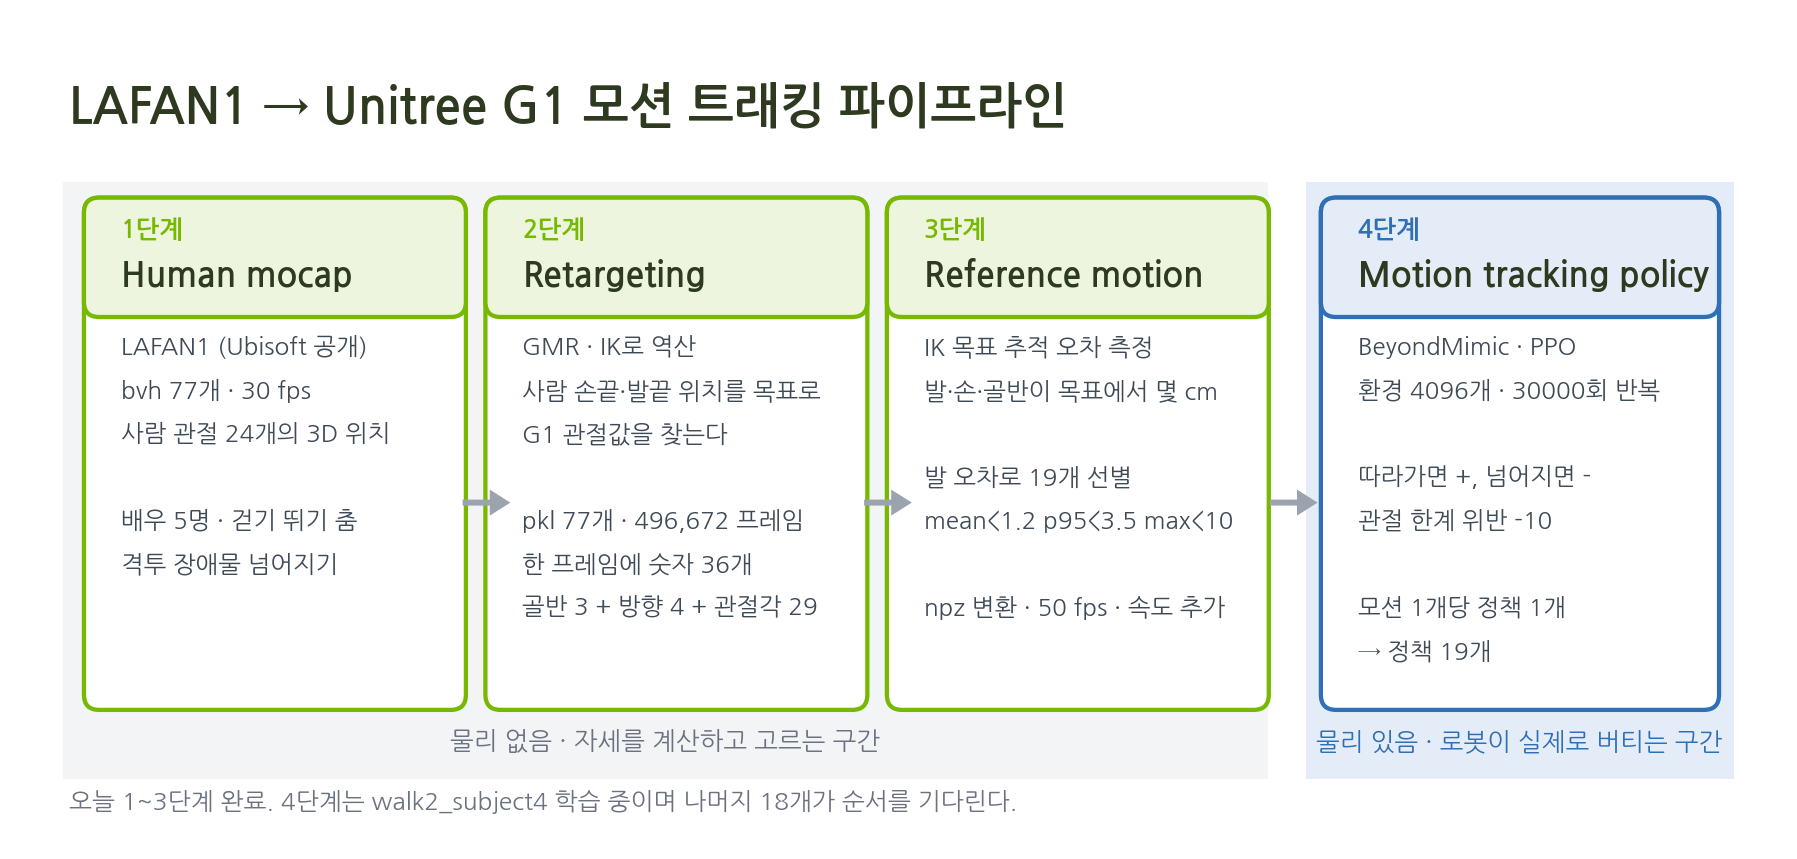
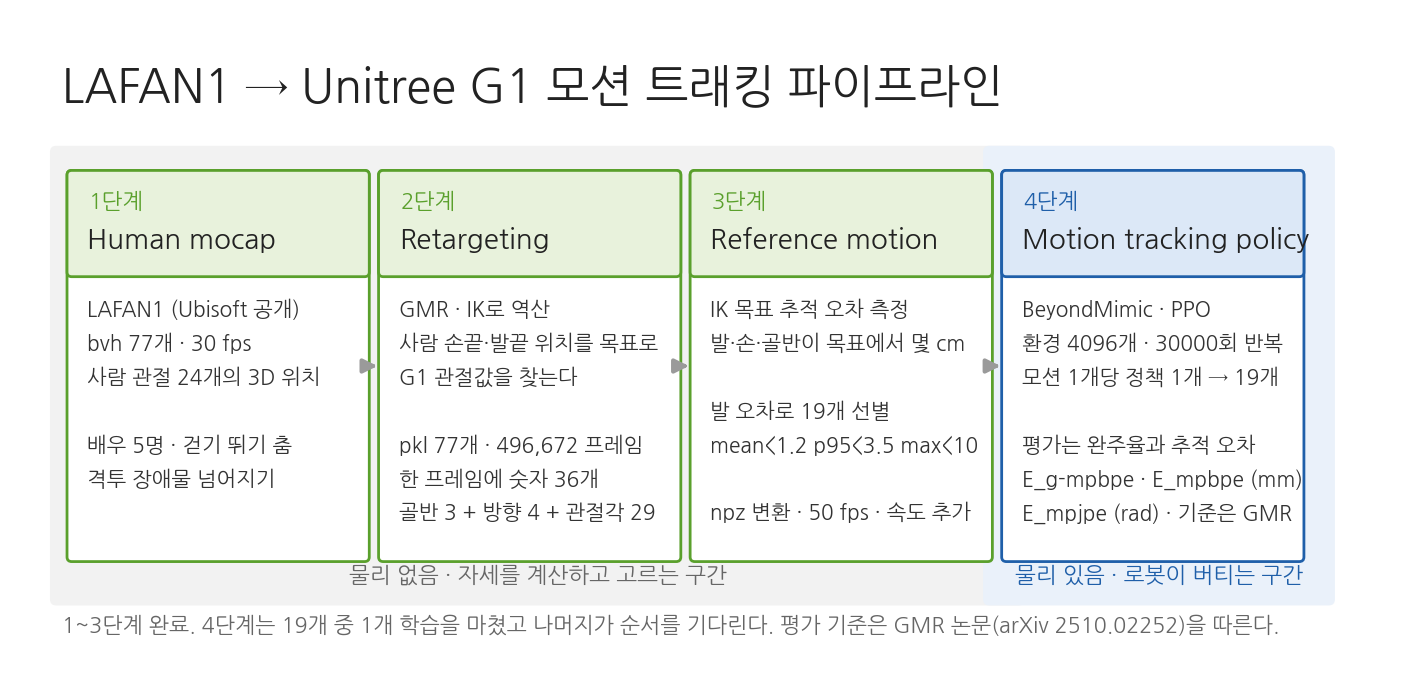
Redraw the pipeline figure with the evaluation criteria
Stage 4 now carries what the policies are measured by — completion rate and
the three tracking errors GMR reports — and the note reflects one policy
trained of nineteen. The figure is generated by scripts/make_pipeline_figure.py.

Claude-Session: https://claude.ai/code/session_01DoowRvK5cc8ssa8UTxvk9t

Changed region(s): [[0.031, 0.2143, 0.9922, 0.949], [0.031, 0.0918, 0.7132, 0.1531]]

diff --git a/scripts/make_pipeline_figure.py b/scripts/make_pipeline_figure.py
@@ -1,0 +1,103 @@
+"""README의 파이프라인 그림을 그린다.
+
+    python scripts/make_pipeline_figure.py --out docs/pipeline.png
+"""
+
+import argparse
+
+import matplotlib
+matplotlib.use("Agg")
+import matplotlib.font_manager as fm
+import matplotlib.pyplot as plt
+from matplotlib.patches import FancyArrowPatch, FancyBboxPatch
+
+FONT = "/usr/share/fonts/truetype/nanum/NanumGothic.ttf"
+GREEN, GREEN_FILL = "#5aa02c", "#e8f2dc"
+BLUE, BLUE_FILL = "#1f5fa9", "#dce8f7"
+
+STAGES = [
+    dict(no="1단계", name="Human mocap", color=GREEN, fill=GREEN_FILL,
+         body=["LAFAN1 (Ubisoft 공개)",
+               "bvh 77개 · 30 fps",
+               "사람 관절 24개의 3D 위치",
+               "",
+               "배우 5명 · 걷기 뛰기 춤",
+               "격투 장애물 넘어지기"]),
+    dict(no="2단계", name="Retargeting", color=GREEN, fill=GREEN_FILL,
+         body=["GMR · IK로 역산",
+               "사람 손끝·발끝 위치를 목표로",
+               "G1 관절값을 찾는다",
+               "",
+               "pkl 77개 · 496,672 프레임",
+               "한 프레임에 숫자 36개",
+               "골반 3 + 방향 4 + 관절각 29"]),
+    dict(no="3단계", name="Reference motion", color=GREEN, fill=GREEN_FILL,
+         body=["IK 목표 추적 오차 측정",
+               "발·손·골반이 목표에서 몇 cm",
+               "",
+               "발 오차로 19개 선별",
+               "mean<1.2 p95<3.5 max<10",
+               "",
+               "npz 변환 · 50 fps · 속도 추가"]),
+    dict(no="4단계", name="Motion tracking policy", color=BLUE, fill=BLUE_FILL,
+         body=["BeyondMimic · PPO",
+               "환경 4096개 · 30000회 반복",
+               "모션 1개당 정책 1개 → 19개",
+               "",
+               "평가는 완주율과 추적 오차",
+               "E_g-mpbpe · E_mpbpe (mm)",
+               "E_mpjpe (rad) · 기준은 GMR"]),
+]
+
+NOTE = ("1~3단계 완료. 4단계는 19개 중 1개 학습을 마쳤고 나머지가 순서를 기다린다. "
+        "평가 기준은 GMR 논문(arXiv 2510.02252)을 따른다.")
+
+
+def main(out):
+    fm.fontManager.addfont(FONT)
+    plt.rcParams["font.family"] = fm.FontProperties(fname=FONT).get_name()
+
+    fig, ax = plt.subplots(figsize=(18.0, 8.6), dpi=100)
+    ax.set_xlim(0, 1800); ax.set_ylim(0, 860); ax.axis("off")
+    fig.patch.set_facecolor("white")
+
+    ax.text(65, 745, "LAFAN1 → Unitree G1 모션 트래킹 파이프라인",
+            fontsize=33, color="#222222")
+
+    x, w, gap = 75, 382, 20
+    span13 = 3 * w + 2 * gap
+    ax.add_patch(FancyBboxPatch((55, 95), span13 + 60, 585, boxstyle="round,pad=6,rounding_size=8",
+                                linewidth=0, facecolor="#f2f2f2"))
+    ax.add_patch(FancyBboxPatch((x + 3 * (w + gap) - 22, 95), w + 60, 585,
+                                boxstyle="round,pad=6,rounding_size=8",
+                                linewidth=0, facecolor="#eaf1fa"))
+    ax.text(55 + (span13 + 60) / 2, 120, "물리 없음 · 자세를 계산하고 고르는 구간",
+            fontsize=16, color="#666666", ha="center")
+    ax.text(x + 3 * (w + gap) - 22 + (w + 60) / 2, 120, "물리 있음 · 로봇이 버티는 구간",
+            fontsize=16, color=BLUE, ha="center")
+
+    for i, st in enumerate(STAGES):
+        left = x + i * (w + gap)
+        ax.add_patch(FancyBboxPatch((left, 150), w, 500, boxstyle="round,pad=4,rounding_size=6",
+                                    linewidth=2, edgecolor=st["color"], facecolor="white"))
+        ax.add_patch(FancyBboxPatch((left, 520), w, 130, boxstyle="round,pad=4,rounding_size=6",
+                                    linewidth=2, edgecolor=st["color"], facecolor=st["fill"]))
+        ax.text(left + 24, 606, st["no"], fontsize=16, color=st["color"])
+        ax.text(left + 22, 553, st["name"], fontsize=20, color="#222222")
+        for j, line in enumerate(st["body"]):
+            ax.text(left + 22, 465 - j * 44, line, fontsize=15, color="#333333")
+        if i < len(STAGES) - 1:
+            ax.add_patch(FancyArrowPatch((left + w + 2, 400), (left + w + gap - 2, 400),
+                                         arrowstyle="-|>", mutation_scale=20,
+                                         linewidth=3, color="#9a9a9a"))
+
+    ax.text(65, 55, NOTE, fontsize=15.5, color="#666666")
+
+    fig.savefig(out, facecolor="white", bbox_inches="tight", pad_inches=0.12)
+    print(f"저장: {out}")
+
+
+if __name__ == "__main__":
+    p = argparse.ArgumentParser()
+    p.add_argument("--out", default="docs/pipeline.png")
+    main(p.parse_args().out)
